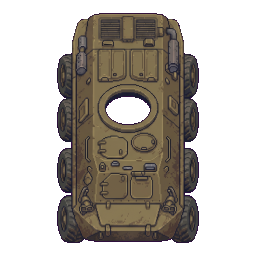
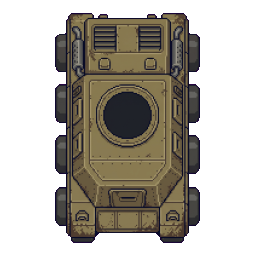
art(A-102): 임시본 19장을 Gemini Argon으로 교체(적 RPG 사격·보스·카드 6·이펙트 6·지뢰 2·배경), 진행 기록 갱신
Claude-Session: https://claude.ai/code/session_01TFLk2FmAm8QFC3pj3rfjgn

diff --git a/docs/tickets/A-102-art-pack.md b/docs/tickets/A-102-art-pack.md
@@ -377,10 +377,29 @@ Extend the attached top-down pixel art map vertically to a 9:19.5 portrait ratio
     - 저격수 공격 2번째 프레임 자주색 조각, fx_explosion 빨간 조각, fx_heal 옅은 분홍 줄
   - 수동 정리 이력: ally_miner_idle 찌꺼기 제거, fx_muzzle 워터마크 제거. fx_explosion·fx_flame·fx_heal은 meta.json `split: even`
 - [x] 2026-10-23 0단계: 사용자가 배경 길을 **넓힌다**로 결정했다(G묶음 프롬프트 그대로: 흙길이 화면 폭의 약 3/4). 화풍은 이미 이 결로 생산 중이라 승인으로 본다.
-- [ ] A묶음 7장
-- [ ] B묶음 12장
-- [ ] C묶음 6장
-- [ ] D묶음 2장
-- [ ] E묶음 6장
-- [ ] F묶음 8장
-- [ ] G묶음 1장
+- [x] 2026-10-23 Claude: 임시본 19장을 Gemini Argon(보통)으로 모두 다시 만들어 반영했다. 브랜치: `kidariseok/m4-core`
+  - 반영 결과: `node scripts/assets.mjs` 33개 전부 성공, `npm run assets:check`(35키)·`tests/assets*.test.ts`(16개) 통과
+  - 새로 만든 것
+    - C: enemy_rpg_fire(걷기 시트와 배율 0.225 공유, 모자 크기가 같아 크기 조정 없이 처리)
+    - D: boss_apc_hull, boss_apc_turret(포탑은 차체와 별개로 단독 생성)
+    - E: card 6장(글자·패치 없음, 3:4)
+    - F: fx_explosion·muzzle·wind·flame·heal·gas, mine·mine_at
+    - G: bg_gate(9:16, 길 약 3/4 폭)
+  - 도구 변경(`scripts/assets.mjs`): `removeConnectedMagentaHalo` 추가(배경과 이어진 마젠타 계열만 제거), 가장자리 번짐 정리 1겹→3겹(`DEFAULT_FRINGE_PASSES = 3`). 마젠타 번짐 측정 0.0%
+  - 수동 정리
+    - 오른쪽 아래 Gemini 워터마크를 칠해 지운 뒤 ingest(fx_flame·fx_gas는 모서리가 잘려 원본 그대로 다시 처리)
+    - `art/source/fx_explosion/meta.json`, `fx_heal/meta.json`에 `{"split":"even"}`(파편이 갈라져 잡힘). fx_flame은 meta 삭제
+  - 남은 이슈
+    - enemy_inf_attack 2번째 프레임 바지가 위장무늬, 보병·RPG병 걷기 네 프레임이 거의 같은 포즈(ChatGPT 결과)
+    - 저격수 공격 2번째 프레임의 자주색 조각, fx_explosion 3·4번째 프레임 사이 빨간 조각, fx_heal 마지막 프레임이 작고 흩어짐
+    - 취사병 카드 오른쪽에 옅은 자주색 김
+    - 갤러리(`?scene=gallery`)에서 대기 시트가 `frames: 1`로 표시됨: 레인 A(`src/battle/art.ts`) 쪽 계약 문제
+    - 게임 안에서 새 그림이 제대로 보이는지는 아직 확인하지 않았다(`?scene=battle` 확인 필요)
+  - 다음: 위 남은 이슈 중 거슬리는 장만 Gemini Argon으로 다시 뽑기, 게임 화면 확인
+- [x] A묶음 7장
+- [x] B묶음 12장
+- [x] C묶음 6장
+- [x] D묶음 2장
+- [x] E묶음 6장
+- [x] F묶음 8장
+- [x] G묶음 1장
